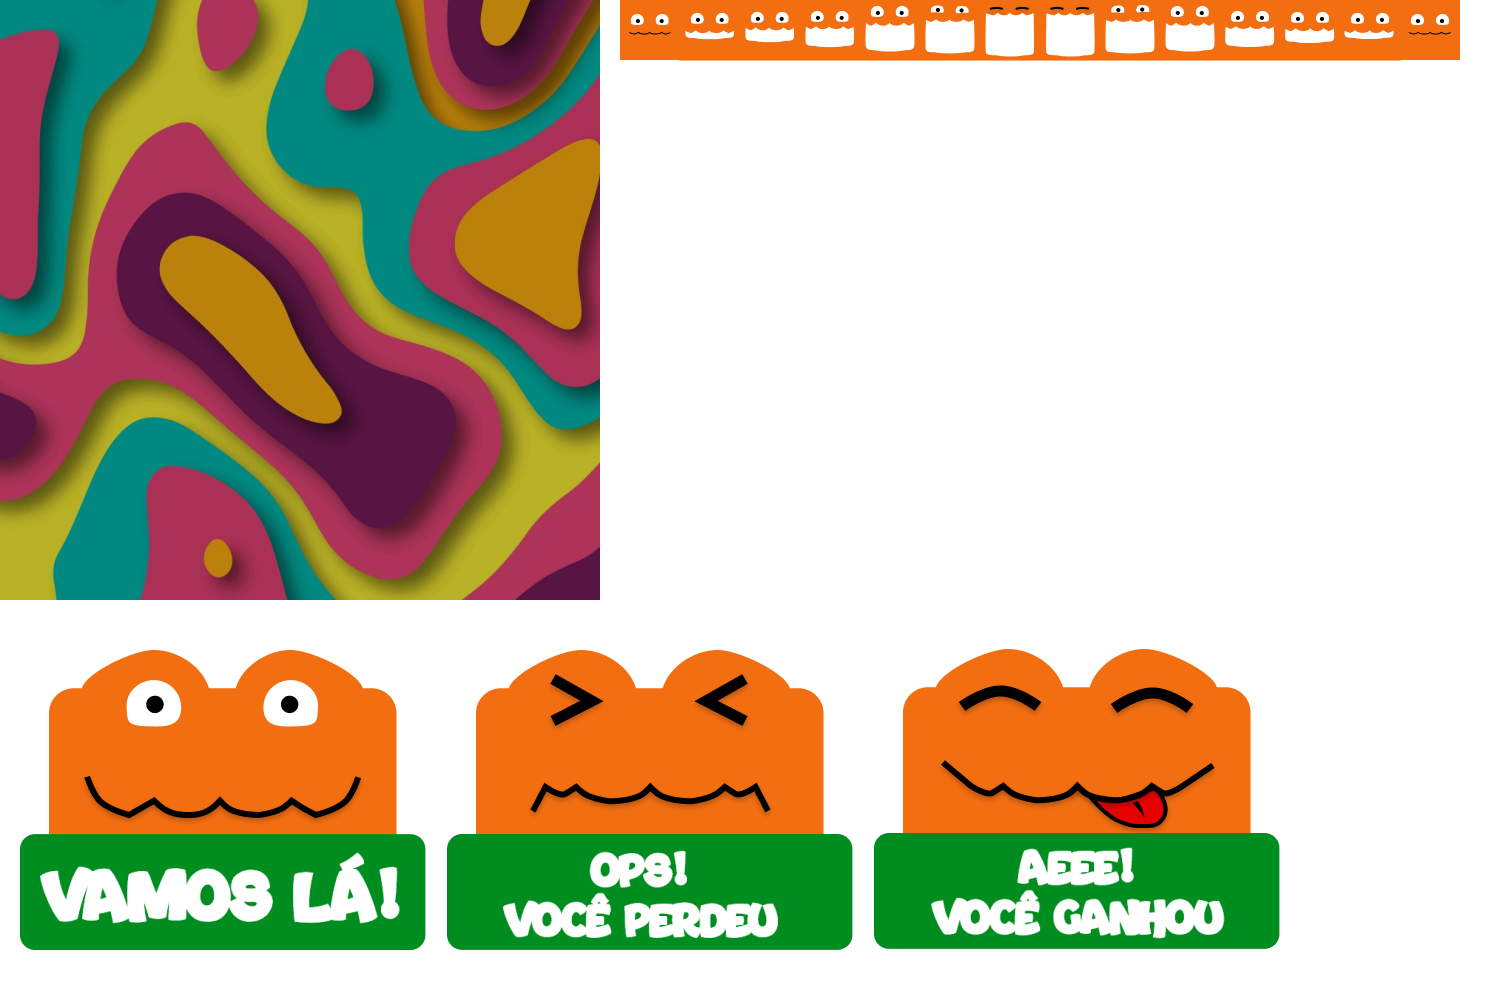
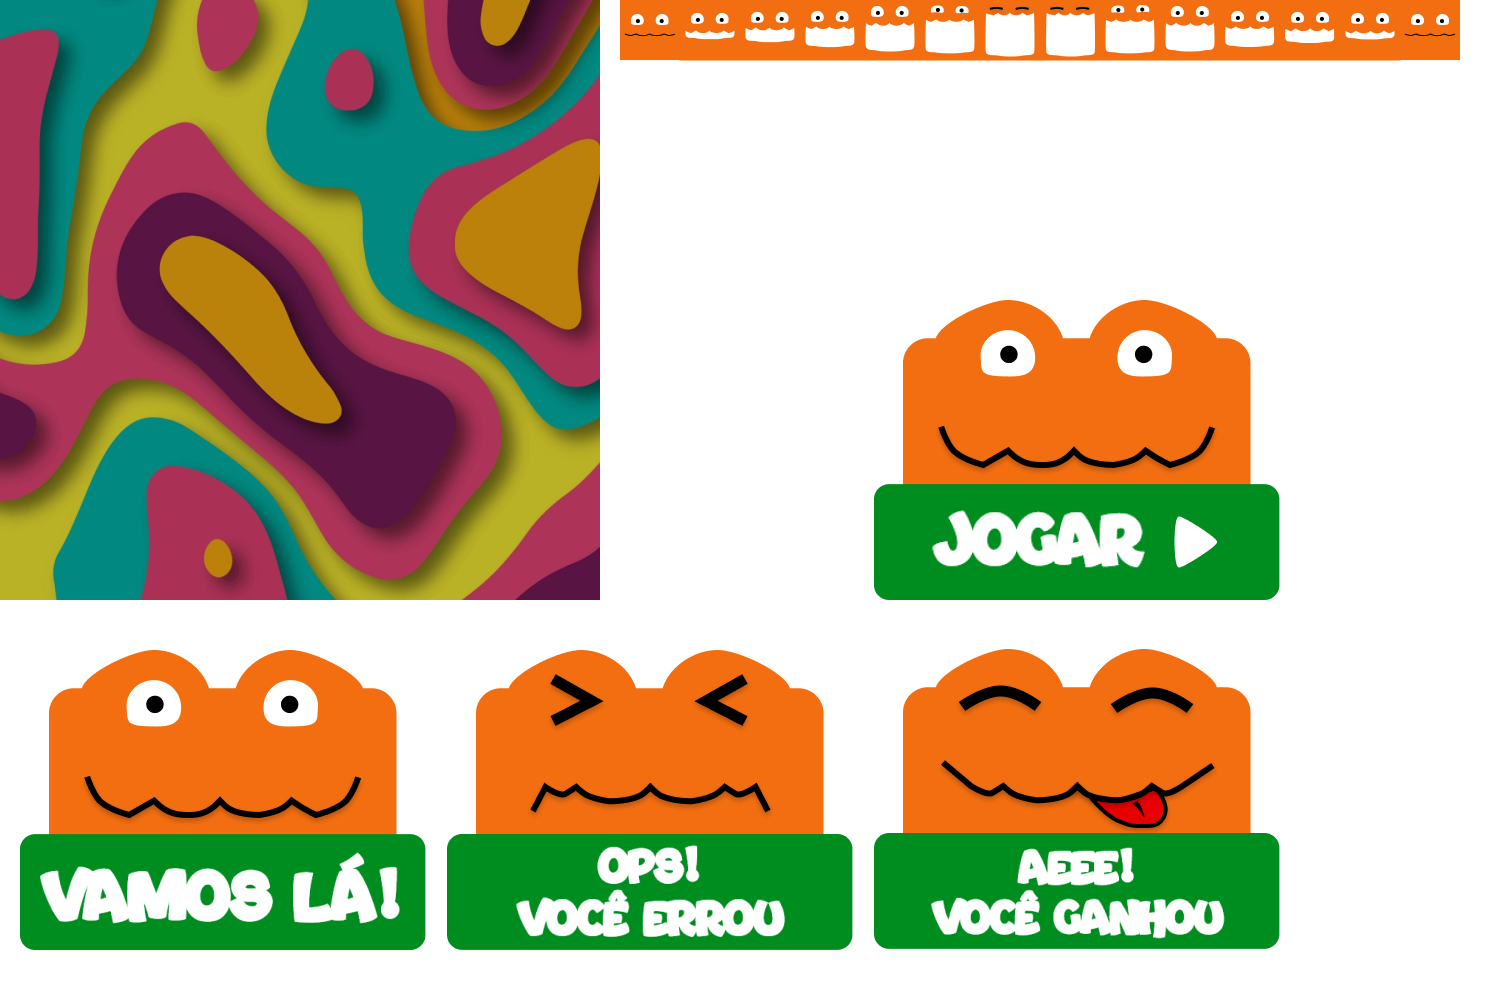
adicionando o modo de sílabas embaralhadas e novas palavras

Changed region(s): [[0.5827, 0.279, 0.8587, 0.62], [0.3373, 0.837, 0.5213, 0.961]]

diff --git a/public/javascripts/components/Silabas.js b/public/javascripts/components/Silabas.js
@@ -1,4 +1,4 @@
-import { sorteiaPalavra, sorteiaSilaba, sorteiaPosicao } from '../utils/silabas.js'
+import { sorteiaPalavra, sorteiaSilaba, sorteiaPosicao, sorteiaSilabaMix } from '../utils/silabas.js'
 
 export function Silabas(stateGame, canvas){
     let objs_sibs = [],
@@ -40,6 +40,34 @@ export function Silabas(stateGame, canvas){
                 do {
                     silaba = sorteiaSilaba()
                     sib_existe = objs_sibs.some((obj) => obj.s === silaba || silaba==null)
+                } while(sib_existe)
+                do {
+                    coord = sorteiaPosicao()
+                    coord_existe = objs_sibs.some((obj) => obj.x==coord[0] && obj.y==coord[1])
+                } while (coord_existe)
+
+                const objeto = {
+                    s: silaba,
+                    color: "#f2f2f2",
+                    x: coord[0],
+                    y: coord[1],
+                    // largSilaba: dimenBloco,
+                    // altSilaba: dimenBloco,
+                    passou: false,
+                    is_essa: false,
+                }
+
+                objs_sibs.push(objeto)
+                sibs_aleatorias.push(objeto)
+            }
+        },
+        constroiSilabasMix: () => {
+            var silaba, sib_existe=false, coord, coord_existe=false;
+            let palav = palavra.word.join("")
+            for (var i = 0; i < (numSib + Math.trunc(palavra.word.length / 3)); i++){
+                do {
+                    silaba = sorteiaSilabaMix(palav)
+                    sib_existe = sibs_certas.some((obj) => obj.s === silaba || silaba==null)
                 } while(sib_existe)
                 do {
                     coord = sorteiaPosicao()

diff --git a/public/javascripts/utils/silabas.js b/public/javascripts/utils/silabas.js
@@ -3,8 +3,11 @@ const palavras = [
     {'imagem': "img-dica-bala.png", 'word': ['BA', 'LA']},
     {'imagem': "img-dica-mala.png", 'word': ['MA', 'LA']},
     {'imagem': "img-dica-bolo.png", 'word': ['BO', 'LO']},
+    {'imagem': "img-dica-boneca.png", 'word': ['BO', 'NE', 'CA']},
+    {'imagem': "img-dica-janela.png", 'word': ['JA', 'NE', 'LA']},
     {'imagem': "img-dica-sapato.png", 'word': ['SA', 'PA', 'TO']},
-    {'imagem': "img-dica-telefone.png", 'word': ['TE', 'LE', 'FO', 'NE']}
+    {'imagem': "img-dica-capacete.png", 'word': ['CA', 'PA', 'CE', 'TE']},
+    {'imagem': "img-dica-telefone.png", 'word': ['TE', 'LE', 'FO', 'NE']},
 ]
 const todasSilabas = [
     ["BA", "BE", "BI", "BO", "BU"],
@@ -52,6 +55,22 @@ function sorteiaSilaba(){
     return sibSorteada;
 }
 
+function sorteiaSilabaMix(palavra){
+    let linha, coluna, sibSorteada;
+
+    let pos1 = Math.floor(Math.random() * (palavra.length))
+    let pos2 = Math.floor(Math.random() * (palavra.length))
+    let letra1 = palavra[pos1]
+    let letra2 = palavra[pos2]
+    sibSorteada = `${letra1}${letra2}`
+    if(sibSorteada == null){
+        // caso sorteie oq seria a sílaba "QUU"
+        sorteiaSilaba()
+    }
+
+    return sibSorteada;
+}
+
 function sorteiaPosicao(){ 
     let sort, posx, posy;
 
@@ -66,4 +85,4 @@ function sorteiaPosicao(){
     return [posx, posy]
 }
 
-export { sorteiaPalavra, sorteiaSilaba, sorteiaPosicao };
+export { sorteiaPalavra, sorteiaSilaba, sorteiaPosicao, sorteiaSilabaMix };

diff --git a/public/javascripts/script2.js b/public/javascripts/script2.js
@@ -100,7 +100,12 @@ function mover(tecla) {
             silabas.resetaSilabas(true)
 
             silabas.constroiPalavra()
-            silabas.constroiSilabas()
+            let opcaoConstr = Math.floor(Math.random() * 2)
+            if(opcaoConstr == 0){
+                silabas.constroiSilabas()
+            } else {
+                silabas.constroiSilabasMix()
+            }
 
             let palavra = silabas.getPalavra()
 
@@ -202,6 +207,8 @@ function desenha(){
         ctx.fillRect(0, 0, plano, plano)
 
         silabas.desenhaSibsPassou(padrao, plano)
+
+        linhas()
 
         bloco.desenhaBloco(frame, padrao, spriteBloco)
 
